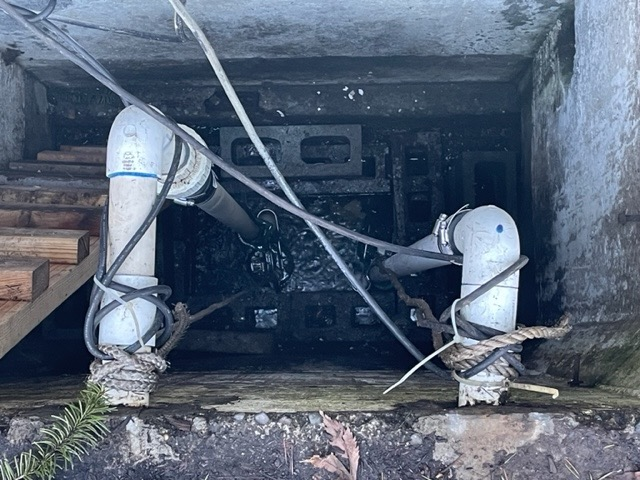
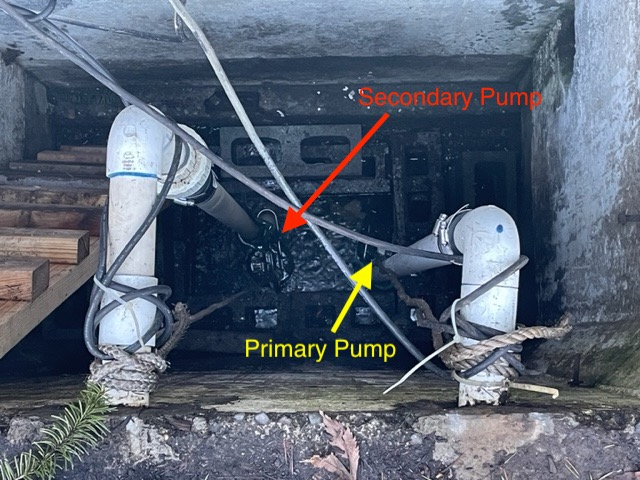
Arrows and stuff

diff --git a/ridge-drive/sump-pumps.md b/ridge-drive/sump-pumps.md
@@ -3,7 +3,20 @@
 ## Overview
 The sump pump system for 319 Ridge Drive exists to provide a place for rainwater to drain as well as underground water flow from springs that exist in the neighborhood.   A well (about 8' deep) has been created behind an upstairs bedroom and near the water faucets in the back as a place to catch water runoff.  This is where the sump pumps do the task of pumping the water from the well out to Paletine Hill Rd. on the east side of the property.  
 
-<!--- # Add picture of where the pumps exist (zoom out a bit) as well as a picture of where the drainage area is on Paletine Hill Rd. ---> 
+<figure>
+  <img src="./pump-area.jpg">
+  <figcaption align = "center"><b>Sump Pump Area</b>
+  </figcaption>
+</figure>
+
+<figure>
+  <img src="./pump-drain-1.jpg">
+  <img src="./pump-drain-2.jpg">
+  <figcaption align = "center"><b>Pump Drain from Paletine Hill Rd.</b>
+  </figcaption>
+</figure>
+
+
 
 ### Pump Manufacturing and Purchasing Details
 - Zoeller Submersible Sump Pump
